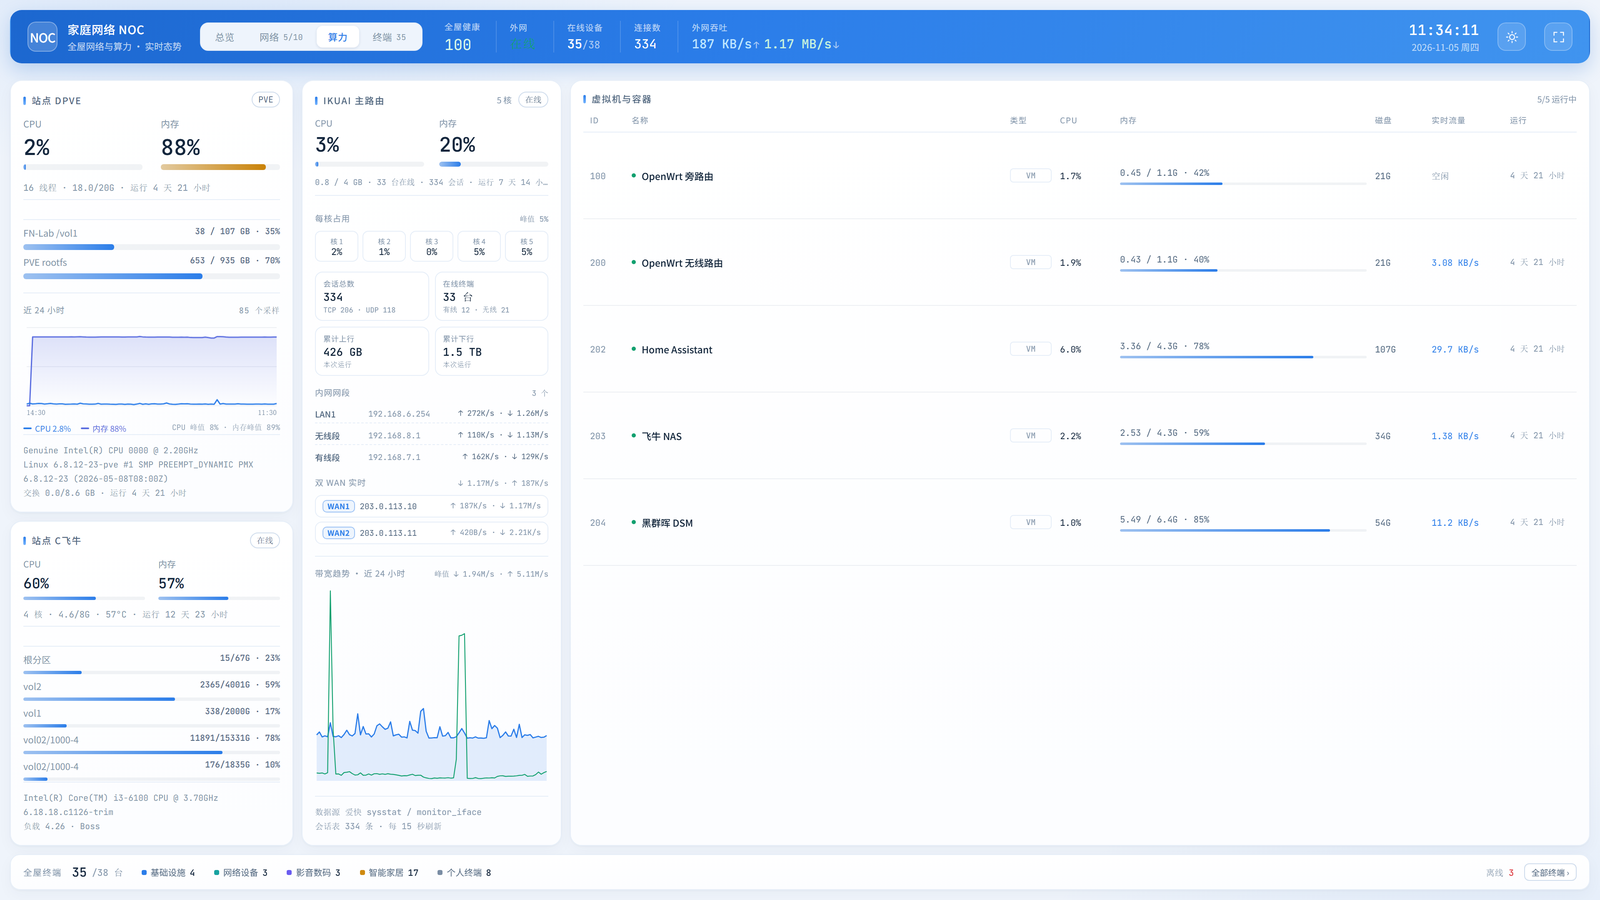
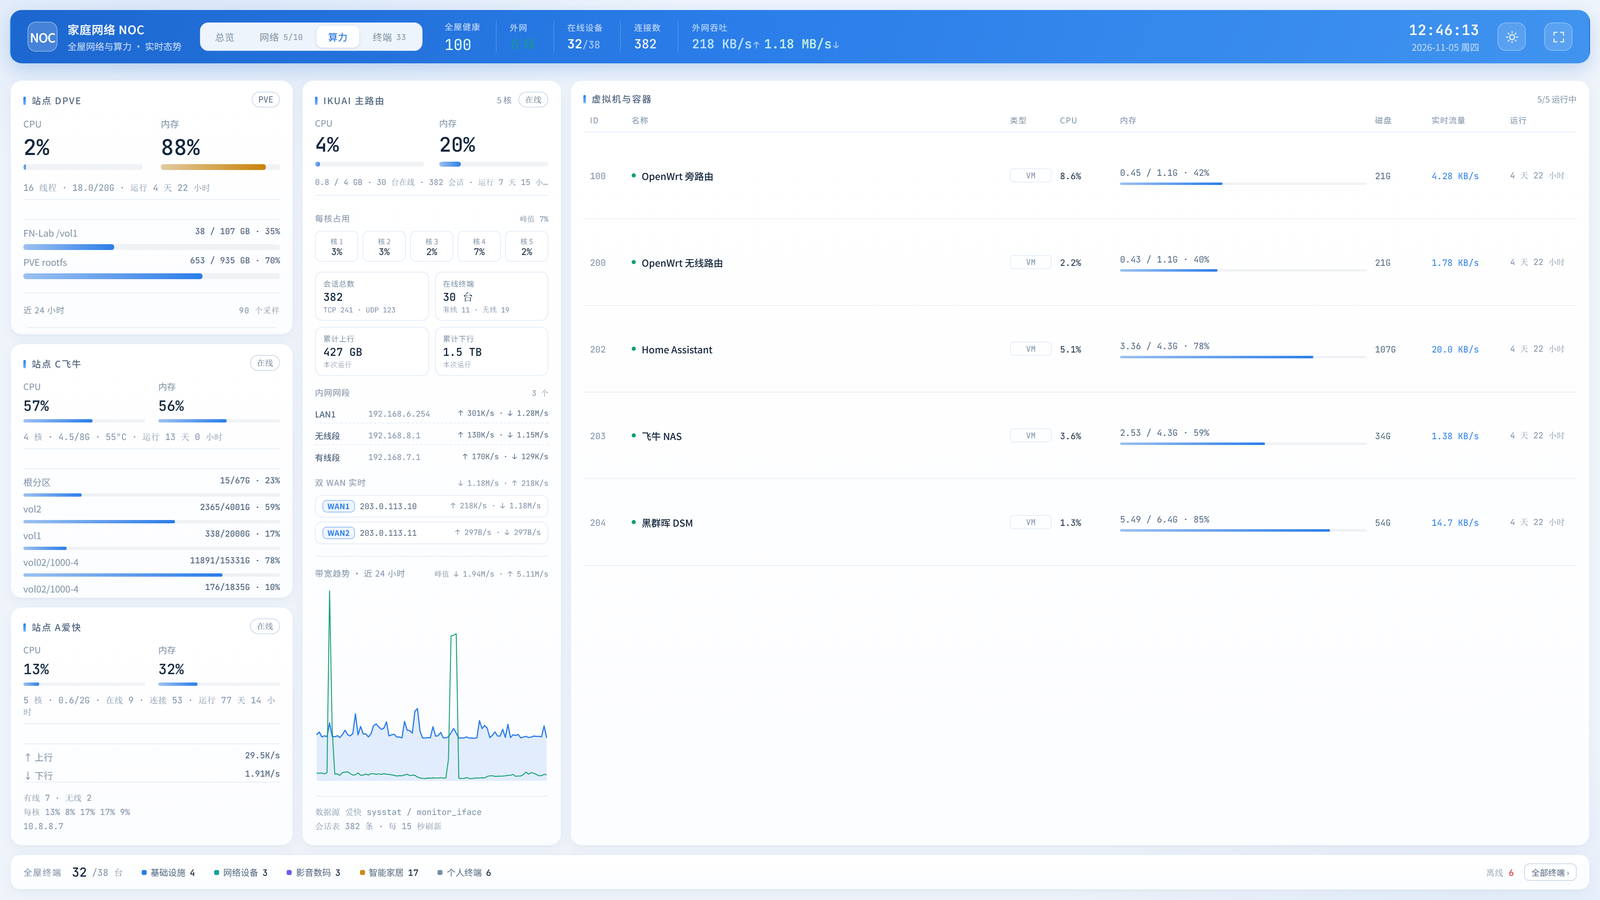
feat(compute): 新增远程爱快（VPN 站点）算力监控卡
- 新增 collectors/remote_ikuai.py：经 VPN API 采集远程 iKuai 路由器，
  兼容 V3（Result/ErrMsg/Data）与 V4（code/results）两种返回格式；
  登录用 V4 的 md5+salt_11+base64 格式，V3 也接受
- 采集 sysstat：CPU（含每核）/内存/在线终端数/连接数/实时上下行速率/运行时长
- 算力页左列新增第三张卡（PVE → 飞牛 → 远程爱快），iKuai 与 VM 表跨三行
- 卡片展示 CPU/内存仪表 + 在线/连接/运行时长 + 上下行速率 + 每核占用
- VPN 断或 API 失败时降级显示「离线」
- config.py 加 RIKUAI_URL/USER/PASS + POLL_RIKUAI + 算力标题变量
- server.py 加 rikuai 采集循环（默认 15 秒）
- README 功能表与截图更新

Changed region(s): [[0.0, 0.3733, 0.3438, 0.9333]]

diff --git a/noc/app/static/app.js b/noc/app/static/app.js
@@ -255,8 +255,10 @@
     const ct = site.compute || {};
     const pveT = document.getElementById('pveTitle');
     const fnosT = document.getElementById('fnosTitle');
+    const rikuaiT = document.getElementById('rikuaiTitle');
     if (pveT && ct.pve) pveT.textContent = ct.pve;
     if (fnosT && ct.fnos) fnosT.textContent = ct.fnos;
+    if (rikuaiT && ct.rikuai) rikuaiT.textContent = ct.rikuai;
   }
 
   function portXY(node, idx) {
@@ -790,6 +792,7 @@
     renderProbes(snap.probes || []);
     renderPVE(snap.pve);
     renderFnos(snap.fnos);
+    renderRemoteIkuai(snap.rikuai);
     renderIkuai(snap.ikuai, snap.ifaces, snap.wan_check);
     renderStore(snap.pve, snap.local);
     renderEvents(snap.events || []);
@@ -1438,6 +1441,48 @@
     if (nt) {
       nt.innerHTML = esc(fnos.model || '—') + '<br>' + esc(fnos.kernel || '—') +
         '<br>负载 ' + (fnos.load1 || 0).toFixed(2) + ' · ' + esc(fnos.hostname || fnos.host || '');
+    }
+  }
+
+  // 远程爱快（VPN 站点）：经 VPN API 采集的远程路由器状态。
+  // 卡片展示 CPU/内存/在线数/连接数/实时速率，隧道断时显示「离线」。
+  function renderRemoteIkuai(rik) {
+    const badge = $('rikuaiBadge');
+    if (!rik || !rik.ok) {
+      $('rikuaiCpu').textContent = '—';
+      $('rikuaiMem').textContent = '—';
+      $('rikuaiMeta').textContent = rik === null ? '未连接' : '采集失败';
+      if (badge) badge.textContent = '离线';
+      setBar($('rikuaiCpuBar'), 0);
+      setBar($('rikuaiMemBar'), 0);
+      const st = $('rikuaiStats');
+      if (st) st.innerHTML = '<div class="sm-row"><span>—</span></div>';
+      const nt = $('rikuaiNote');
+      if (nt) nt.textContent = '—';
+      return;
+    }
+    if (badge) badge.textContent = '在线';
+    $('rikuaiCpu').textContent = (rik.cpu || 0).toFixed(0) + '%';
+    const memPct = rik.mem_used_pct || 0;
+    $('rikuaiMem').textContent = memPct.toFixed(0) + '%';
+    setBar($('rikuaiCpuBar'), rik.cpu || 0);
+    setBar($('rikuaiMemBar'), memPct);
+    $('rikuaiMeta').textContent = (rik.cores || '?') + ' 核 · ' +
+      (rik.mem_used / 1e9).toFixed(1) + '/' + (rik.mem_total / 1e9).toFixed(0) + 'G · ' +
+      '在线 ' + (rik.online || 0) + ' · 连接 ' + (rik.conn_total || 0) +
+      ' · 运行 ' + fmtDur(rik.uptime || 0);
+    // 实时上下行速率
+    const st = $('rikuaiStats');
+    if (st) {
+      st.innerHTML =
+        '<div class="sm-row"><span>↑ 上行</span><b>' + fmtRateShort(rik.up_bps || 0) + '</b></div>' +
+        '<div class="sm-row"><span>↓ 下行</span><b>' + fmtRateShort(rik.down_bps || 0) + '</b></div>';
+    }
+    const nt = $('rikuaiNote');
+    if (nt) {
+      nt.innerHTML = '有线 ' + (rik.online_wired || 0) + ' · 无线 ' + (rik.online_wireless || 0) +
+        '<br>每核 ' + (rik.cpu_cores || []).map((v) => v.toFixed(0) + '%').join(' ') +
+        '<br>' + esc((rik.host || '').replace(/^https?:\/\//, ''));
     }
   }
 

diff --git a/noc/app/static/style.css b/noc/app/static/style.css
@@ -322,13 +322,15 @@ body {
    它的 CPU / 内存 / 会话数跟 PVE 放一起看，才知道算力到底花在哪。 */
 .view-compute {
   grid-template-columns: 340px 312px minmax(0, 1fr);
-  grid-template-rows: auto auto;
+  grid-template-rows: auto auto auto;
   grid-template-areas: "pve ik vm"
-                       "fnos ik vm";
+                       "fnos ik vm"
+                       "rikuai ik vm";
   gap: 10px;
 }
 .view-compute .p-pve { grid-area: pve; }
 .view-compute .p-fnos { grid-area: fnos; }
+.view-compute .p-rikuai { grid-area: rikuai; }
 .view-compute .p-ikuai { grid-area: ik; }
 .view-compute .p-vmtable { grid-area: vm; }
 
@@ -1084,8 +1086,8 @@ body {
      全部堆成一列的话标尺会被拉成一整行宽，反而难看 */
   .view-compute {
     grid-template-columns: minmax(0, 1fr) minmax(0, 1fr);
-    grid-template-rows: auto auto 420px;
-    grid-template-areas: "pve ik" "fnos fnos" "vm vm";
+    grid-template-rows: auto auto auto 420px;
+    grid-template-areas: "pve ik" "fnos fnos" "rikuai rikuai" "vm vm";
   }
   .view-clients .wall { height: 620px; }
   .top { flex-wrap: wrap; height: auto; padding: 10px 14px; gap: 12px; }
@@ -1098,8 +1100,8 @@ body {
   /* 手机宽度两台机器并排已经放不下，老老实实竖着堆 */
   .view-compute {
     grid-template-columns: minmax(0, 1fr);
-    grid-template-rows: auto auto auto 380px;
-    grid-template-areas: "pve" "fnos" "ik" "vm";
+    grid-template-rows: auto auto auto auto 380px;
+    grid-template-areas: "pve" "fnos" "rikuai" "ik" "vm";
   }
   .view-clients .wall { height: 520px; }
   .top { padding: 12px 14px; }
@@ -1720,6 +1722,7 @@ text.port-rate {
 /* 算力页 */
 .view-compute .p-pve { min-height: 0; }
 .view-compute .p-fnos { min-height: 0; }
+.view-compute .p-rikuai { min-height: 0; }
 .comp-note {
   margin-top: auto; padding-top: 10px;
   border-top: 1px solid var(--line);

diff --git a/noc/app/static/index.html b/noc/app/static/index.html
@@ -295,6 +295,28 @@
       <div class="comp-note" id="fnosNote">—</div>
     </section>
 
+    <!-- 远程爱快（VPN 站点）：CPU/内存/在线数/连接数/实时速率 -->
+    <section class="panel p-rikuai">
+      <div class="p-head"><h2 id="rikuaiTitle">远程爱快</h2><span class="badge" id="rikuaiBadge">离线</span></div>
+      <div class="gauge-row">
+        <div class="gauge">
+          <span class="g-k">CPU</span>
+          <span class="g-v" id="rikuaiCpu">—</span>
+          <span class="g-bar"><i id="rikuaiCpuBar"></i></span>
+        </div>
+        <div class="gauge">
+          <span class="g-k">内存</span>
+          <span class="g-v" id="rikuaiMem">—</span>
+          <span class="g-bar"><i id="rikuaiMemBar"></i></span>
+        </div>
+      </div>
+      <div class="meta-line" id="rikuaiMeta">未连接</div>
+      <div class="store-mini" id="rikuaiStats">
+        <div class="sm-row"><span>等待采集…</span></div>
+      </div>
+      <div class="comp-note" id="rikuaiNote">—</div>
+    </section>
+
     <!-- 爱快主路由：它也是台机器，CPU / 内存 / 连接数一样占算力，跟 PVE 并排看 -->
     <section class="panel p-ikuai">
       <div class="p-head">

diff --git a/noc/app/collectors/remote_ikuai.py b/noc/app/collectors/remote_ikuai.py
@@ -1,0 +1,129 @@
+# -*- coding: utf-8 -*-
+"""远程爱快（VPN 站点）API 采集器
+
+和本地 ikuai.py 的区别：
+  * 连接参数走 config.RIKUAI_URL / RIKUAI_USER / RIKUAI_PASS，不读本地爱快配置；
+  * 远程爱快是 V3 老版本，返回格式是 {"Result":30000,"ErrMsg":"Success","Data":{...}}，
+    数据在 Data 字段里（V4 是 results）；
+  * 登录 payload 用 V4 的 md5+salt_11+base64 格式也能被 V3 接受；
+  * 只采算力页需要的字段（sysstat），不采接口/终端/VPN。
+
+地址用 VPN 隧道地址（如 10.8.8.X），隧道断时连接超时，前端降级显示「离线」。
+"""
+import base64
+import hashlib
+import http.cookiejar
+import json
+import ssl
+import threading
+import time
+import urllib.request
+
+import config
+
+_lock = threading.RLock()
+
+
+class _Client:
+    def __init__(self):
+        self._opener = None
+        self._logged_at = 0.0
+
+    def _build(self):
+        ctx = ssl.create_default_context()
+        ctx.check_hostname = False
+        ctx.verify_mode = ssl.CERT_NONE
+        cj = http.cookiejar.CookieJar()
+        return urllib.request.build_opener(
+            urllib.request.HTTPCookieProcessor(cj),
+            urllib.request.HTTPSHandler(context=ctx),
+        )
+
+    def _post(self, path, payload, timeout=8):
+        req = urllib.request.Request(
+            config.RIKUAI_URL + path,
+            data=json.dumps(payload).encode("utf-8"),
+            method="POST",
+        )
+        req.add_header("Content-Type", "application/json")
+        with self._opener.open(req, timeout=timeout) as r:
+            return json.loads(r.read().decode("utf-8", "replace"))
+
+    def _login(self):
+        self._opener = self._build()
+        md5 = hashlib.md5(config.RIKUAI_PASS.encode("utf-8")).hexdigest()
+        b64 = base64.b64encode(("salt_11" + md5).encode()).decode()
+        res = self._post("/Action/login", {
+            "username": config.RIKUAI_USER, "passwd": md5,
+            "pass": b64, "remember_password": "",
+        })
+        # V3: {"Result":10000,"ErrMsg":"Success"}；V4: {"code":0}
+        if res.get("Result") not in (10000, None) and res.get("code") not in (0, None):
+            raise RuntimeError("远程爱快登录失败: %s" % res.get("ErrMsg") or res.get("message"))
+        self._logged_at = time.time()
+
+    def call(self, func, param=None):
+        with _lock:
+            if self._opener is None or time.time() - self._logged_at > 1500:
+                self._login()
+            payload = {"func_name": func, "action": "show", "param": param or {}}
+            last = None
+            for _ in range(3):
+                try:
+                    res = self._post("/Action/call", payload)
+                    # V3 成功: Result in (10000, 30000)；V4 成功: code in (0, None)
+                    ok_v3 = res.get("Result") in (10000, 30000, None)
+                    ok_v4 = res.get("code") in (0, None)
+                    if ok_v3 or ok_v4:
+                        return res.get("Data") or res.get("results") or {}
+                    last = res
+                except Exception as exc:
+                    last = exc
+                try:
+                    self._login()
+                except Exception:
+                    pass
+            if isinstance(last, Exception):
+                raise last
+            return {}
+
+
+_client = _Client()
+
+
+def _pct(s):
+    try:
+        return float(str(s).rstrip("%"))
+    except (TypeError, ValueError):
+        return 0.0
+
+
+def collect():
+    """sysstat：CPU/内存/在线数/连接数/实时流速"""
+    if not config.RIKUAI_URL:
+        raise RuntimeError("未配置 RIKUAI_URL（见 .env.example）")
+    r = _client.call("sysstat", {"TYPE": "cpu,memory,uptime,online_user,stream"})
+    cpu = r.get("cpu") or []
+    cpu_vals = [_pct(x) for x in cpu]
+    mem = r.get("memory") or {}
+    stream = r.get("stream") or {}
+    online = r.get("online_user") or {}
+    mem_total_kb = mem.get("total", 0)
+    mem_avail_kb = mem.get("available", mem.get("free", 0))
+    return {
+        "ok": True,
+        "host": config.RIKUAI_URL,
+        "cpu": round(sum(cpu_vals) / len(cpu_vals), 1) if cpu_vals else 0,
+        "cores": len(cpu_vals),
+        "cpu_cores": [round(v, 1) for v in cpu_vals],
+        "mem_used_pct": _pct(mem.get("used")),
+        "mem_total": mem_total_kb * 1024,
+        "mem_used": max(mem_total_kb - mem_avail_kb, 0) * 1024,
+        "uptime": r.get("uptime", 0),
+        "online": online.get("count", 0),
+        "online_wired": online.get("count_wired", 0),
+        "online_wireless": online.get("count_wireless", 0),
+        "conn_total": stream.get("connect_num", 0),
+        "up_bps": stream.get("upload", 0),
+        "down_bps": stream.get("download", 0),
+    }

diff --git a/noc/app/config.py b/noc/app/config.py
@@ -94,6 +94,7 @@ VM_NAMES = SITE.get("vm_names") or {}
 _COMPUTE_TITLES = SITE.get("compute") or {}
 PVE_TITLE = _COMPUTE_TITLES.get("pve") or "PVE"
 FNOS_TITLE = _COMPUTE_TITLES.get("fnos") or "飞牛 NAS"
+RIKUAI_TITLE = _COMPUTE_TITLES.get("rikuai") or "远程爱快"
 LAN_CIDR = SITE.get("subnet") or "192.168.1.0/24"
 try:
     LAN_PREFIX = str(ipaddress.ip_network(LAN_CIDR, strict=False).network_address)
@@ -120,6 +121,13 @@ FNOS_HOST = _env("FNOS_HOST", default="")
 FNOS_PORT = int(_env("FNOS_PORT", default="22"))
 FNOS_USER = _env("FNOS_USER", default="")
 FNOS_PASS = _env("FNOS_PASS", default="")
+
+# ---------------------------------------------------------------- 远程爱快（VPN 站点）
+# 经 VPN 可达的远程 iKuai 路由器 API。url 为空时采集器静默跳过。
+# 算力页会多一张卡片，展示远程路由器的 CPU/内存/在线数/连接数/实时速率。
+RIKUAI_URL = _env("RIKUAI_URL", default="").rstrip("/")
+RIKUAI_USER = _env("RIKUAI_USER", default="admin")
+RIKUAI_PASS = _env("RIKUAI_PASS", default="")
 
 # ---------------------------------------------------------------- 交换机
 SWITCH_URL = _env("SWITCH_URL", default="").rstrip("/")
@@ -188,6 +196,7 @@ POLL_FAST = float(_env("POLL_FAST", default="2"))        # 网关流速 + 本机
 POLL_DEVICES = float(_env("POLL_DEVICES", default="5"))  # 终端列表
 POLL_PVE = float(_env("POLL_PVE", default="5"))
 POLL_FNOS = float(_env("POLL_FNOS", default="15"))   # 远程飞牛（经 VPN），不要太频繁
+POLL_RIKUAI = float(_env("POLL_RIKUAI", default="15"))  # 远程爱快（经 VPN）
 POLL_PING = float(_env("POLL_PING", default="10"))
 POLL_SWITCH = float(_env("POLL_SWITCH", default="5"))    # 交换机端口速率（SSH 一次约 1.1s）
 POLL_VPN = float(_env("POLL_VPN", default="15"))         # VPN 隧道状态

diff --git a/noc/app/server.py b/noc/app/server.py
@@ -17,7 +17,7 @@ sys.path.insert(0, os.path.dirname(os.path.abspath(__file__)))
 import config
 import state
 import store
-from collectors import ha, ikuai, localnet, miwifi, pinger, pve, switch, fnos
+from collectors import ha, ikuai, localnet, miwifi, pinger, pve, switch, fnos, remote_ikuai
 
 STATIC_DIR = os.path.join(os.path.dirname(os.path.abspath(__file__)), "static")
 MIME = {
@@ -68,6 +68,12 @@ def job_fnos():
     if not config.FNOS_HOST:
         return  # 未配置远程飞牛时静默跳过
     state.update("fnos", fnos.collect())
+
+
+def job_rikuai():
+    if not config.RIKUAI_URL:
+        return  # 未配置远程爱快时静默跳过
+    state.update("rikuai", remote_ikuai.collect())
 
 
 def job_probes():
@@ -265,6 +271,7 @@ def main():
     _loop("devices", config.POLL_DEVICES, job_devices)
     _loop("pve", config.POLL_PVE, job_pve)
     _loop("fnos", config.POLL_FNOS, job_fnos)
+    _loop("rikuai", config.POLL_RIKUAI, job_rikuai)
     _loop("probes", config.POLL_PING, job_probes)
     _loop("switch", config.POLL_SWITCH, job_switch)
     _loop("miwifi", config.POLL_MIWIFI, job_wifi)

diff --git a/noc/app/state.py b/noc/app/state.py
@@ -19,6 +19,7 @@ _state = {
     "ifaces": {},
     "pve": None,
     "fnos": None,
+    "rikuai": None,
     "local": None,
     "switch": None,
     "miwifi": None,
@@ -704,7 +705,7 @@ def full_snapshot():
         "wan": config.WAN_LABELS,
         "vm_names": config.VM_NAMES,
         "vpn": config.VPN_CLIENTS,
-        "compute": {"pve": config.PVE_TITLE, "fnos": config.FNOS_TITLE},
+        "compute": {"pve": config.PVE_TITLE, "fnos": config.FNOS_TITLE, "rikuai": config.RIKUAI_TITLE},
     }
     return s
 

diff --git a/README.md b/README.md
@@ -18,7 +18,7 @@
 
 ![网络](docs/screens/02-network.png)
 
-**算力** —— 四区网格：PVE 宿主机、远程飞牛 NAS（经 VPN SSH 采集 CPU/内存/磁盘/温度）、iKuai 主路由（每核占用、会话数、双 WAN）、虚拟机全表。卡片标题随站点配置，不写死在代码里。
+**算力** —— 四区网格：PVE 宿主机、远程飞牛 NAS（经 VPN SSH 采集 CPU/内存/磁盘/温度）、远程爱快（经 VPN API 采集 CPU/内存/在线数/连接数/速率）、iKuai 主路由（每核占用、会话数、双 WAN）、虚拟机全表。卡片标题随站点配置，不写死在代码里。
 
 ![算力](docs/screens/03-compute.png)
 
@@ -92,6 +92,7 @@
 | **终端墙** | 一格一张卡：名称 + 完整 IP + 接入方式（AP 名 / PPP 拨入 / 有线）+ 实时速率；点击看 MAC / 厂商 / 累计流量 |
 | **算力（PVE）** | 宿主机 CPU/内存/rootfs、每台 VM/LXC 明细与网络差分、CPU 与内存趋势 |
 | **算力（飞牛）** | 经 VPN SSH 采集远程 fnOS：CPU/内存/磁盘卷/温度/负载/运行时长，VPN 断时降级显示「离线」 |
+| **算力（远程爱快）** | 经 VPN API 采集远程 iKuai 路由器：CPU/内存/在线数/连接数/实时上下行速率/每核占用，兼容 V3/V4 返回格式 |
 | **算力（iKuai）** | 主路由 CPU/内存、每核占用、会话数、在线终端、内网网段实时收发、双 WAN 线路状态与速率 |
 | **环境与智能家居** | 室内按**房间点名实体**（温度/湿度/PM2.5/甲醛/PM10，按国标上色）、室外天气（含三级兜底）、灯光按房间分组、窗帘、人体存在、空调 |
 | **事件流** | 上下线、链路翻转、灯光开关，都带时间去抖与重复抑制，**落库后可回溯** |
